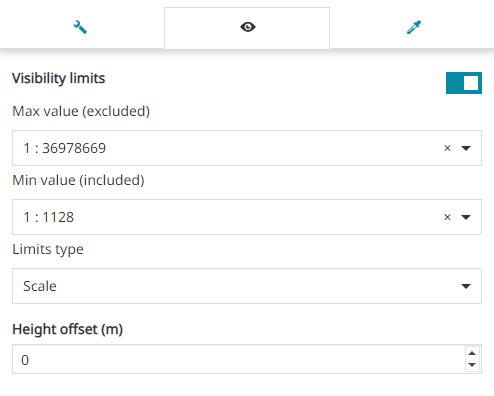
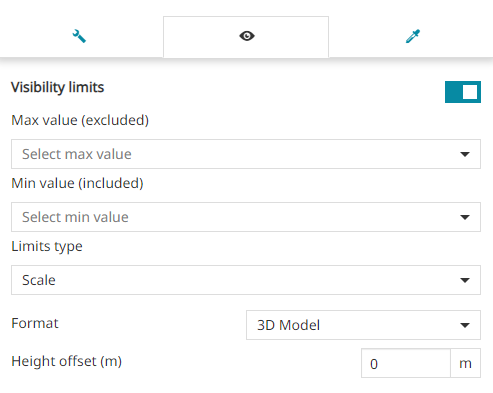
add_9672

diff --git a/docs/user-guide/layer-settings.md b/docs/user-guide/layer-settings.md
@@ -114,11 +114,15 @@ When the *Use cache options* is enabled, more controls are enabled so that it is
 !!!Warning
     On the *Display* tab, only the following options are available for a **3D Tile** layer:
 
+    <img src="../img/layer-settings/display-3d-tiles.jpg" class="ms-docimage"  style="max-width:450px;"/>
+
     * The **Visibility limits** to display the layer only within certain scale limits, as reported above.
 
     * The **Height Offset** above the ground.
 
-    <img src="../img/layer-settings/display-3d-tiles.jpg" class="ms-docimage"  style="max-width:450px;"/>
+    * The **Format** choosing between `3D Model` and `Point Cloud`. The *Point Cloud* option allows the user to customize the `Maximum Attenuation` of the points based on the distance from the current viewpoint and customize the `Lighting strength` and the `Lighting radius` to improve visualization of the point cloud.
+
+    <img src="../img/layer-settings/display-point-cloud.jpg" class="ms-docimage"  style="max-width:450px;"/>
 
 ## Fields
 
